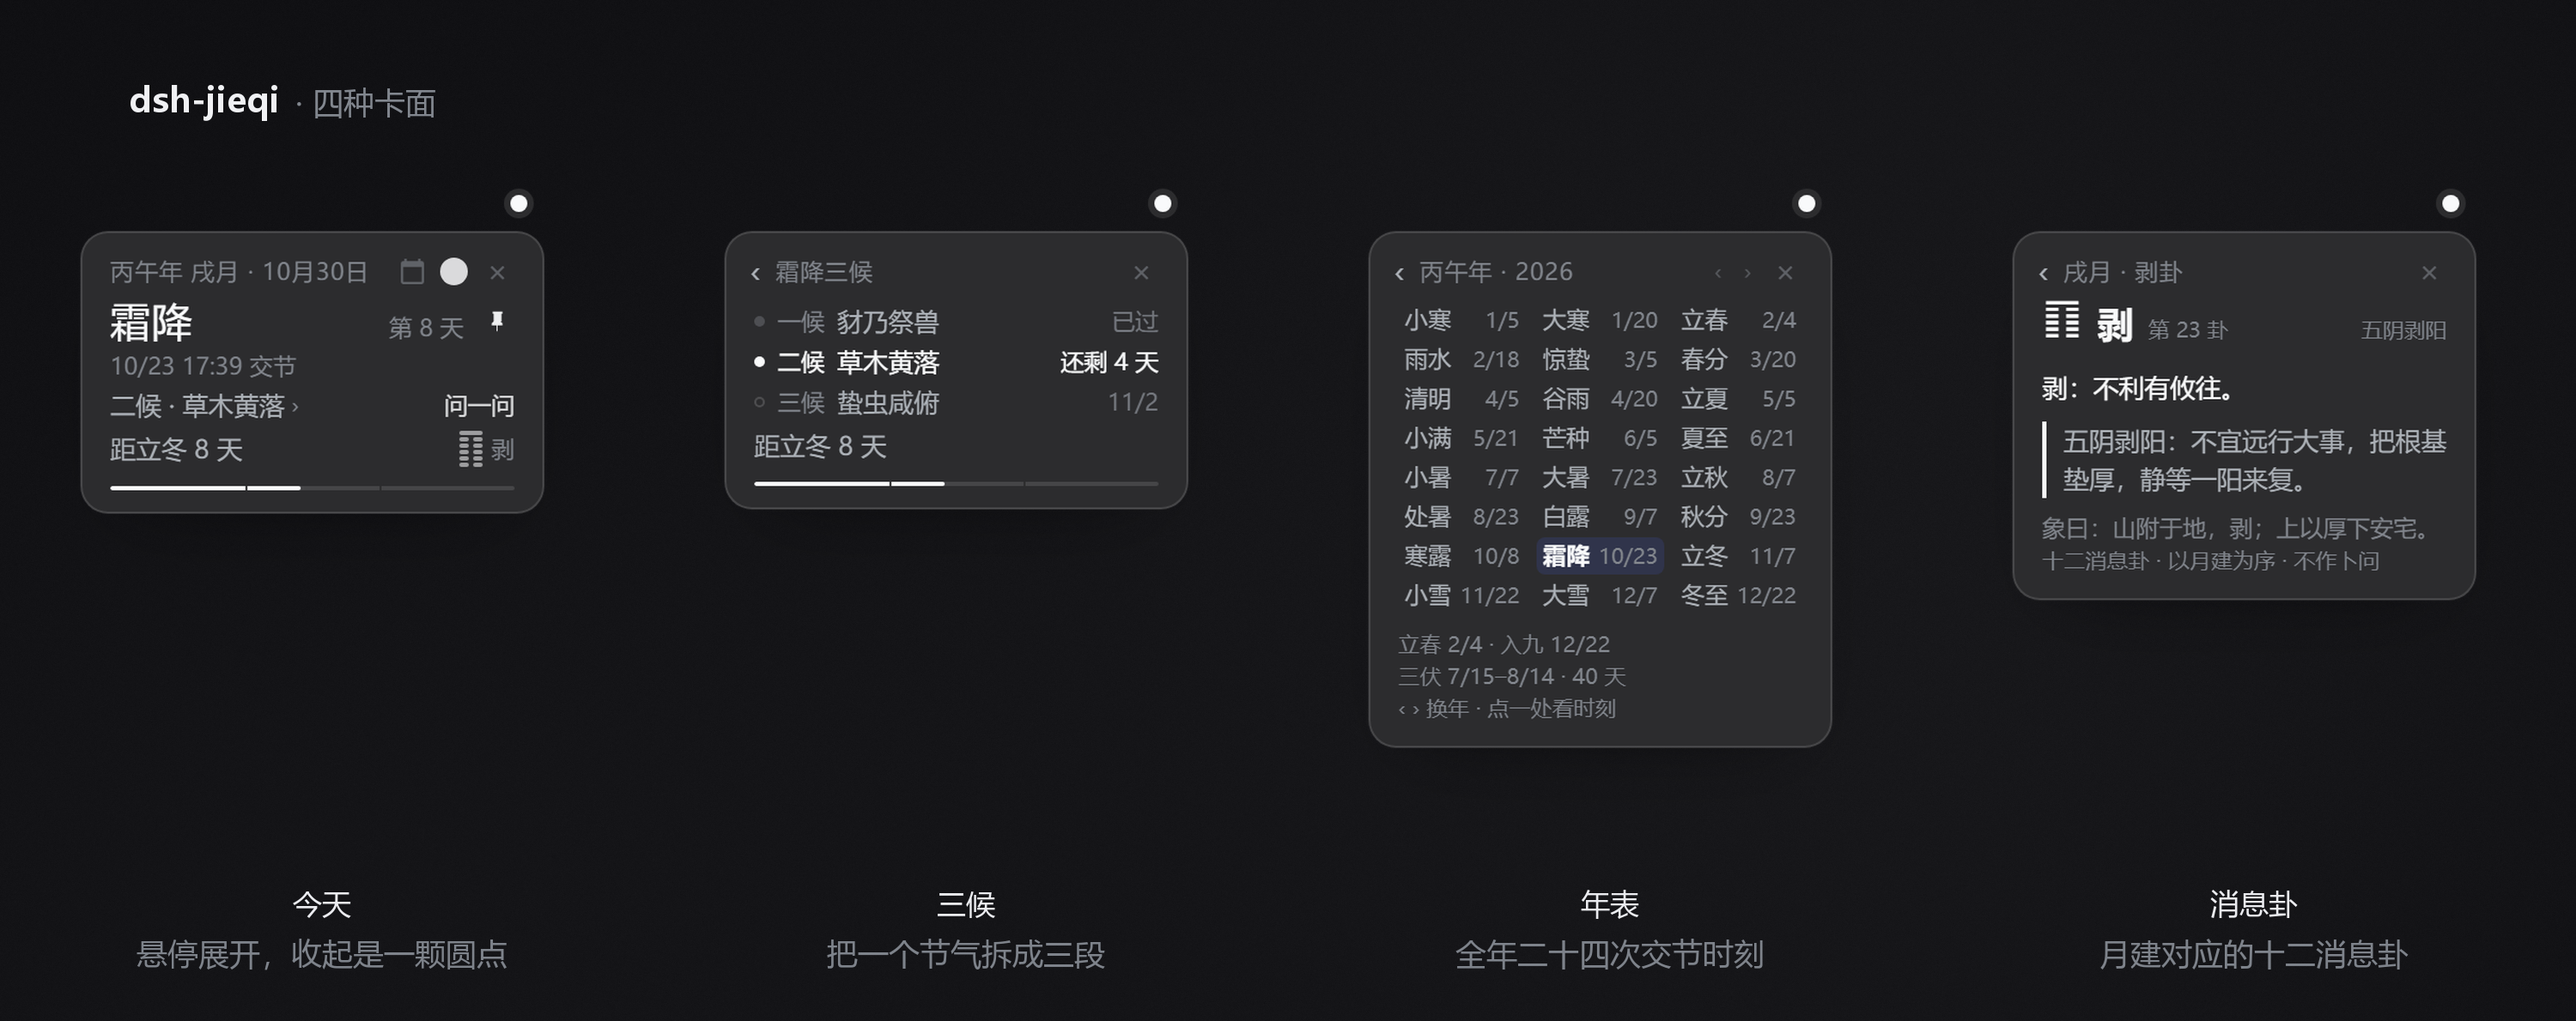
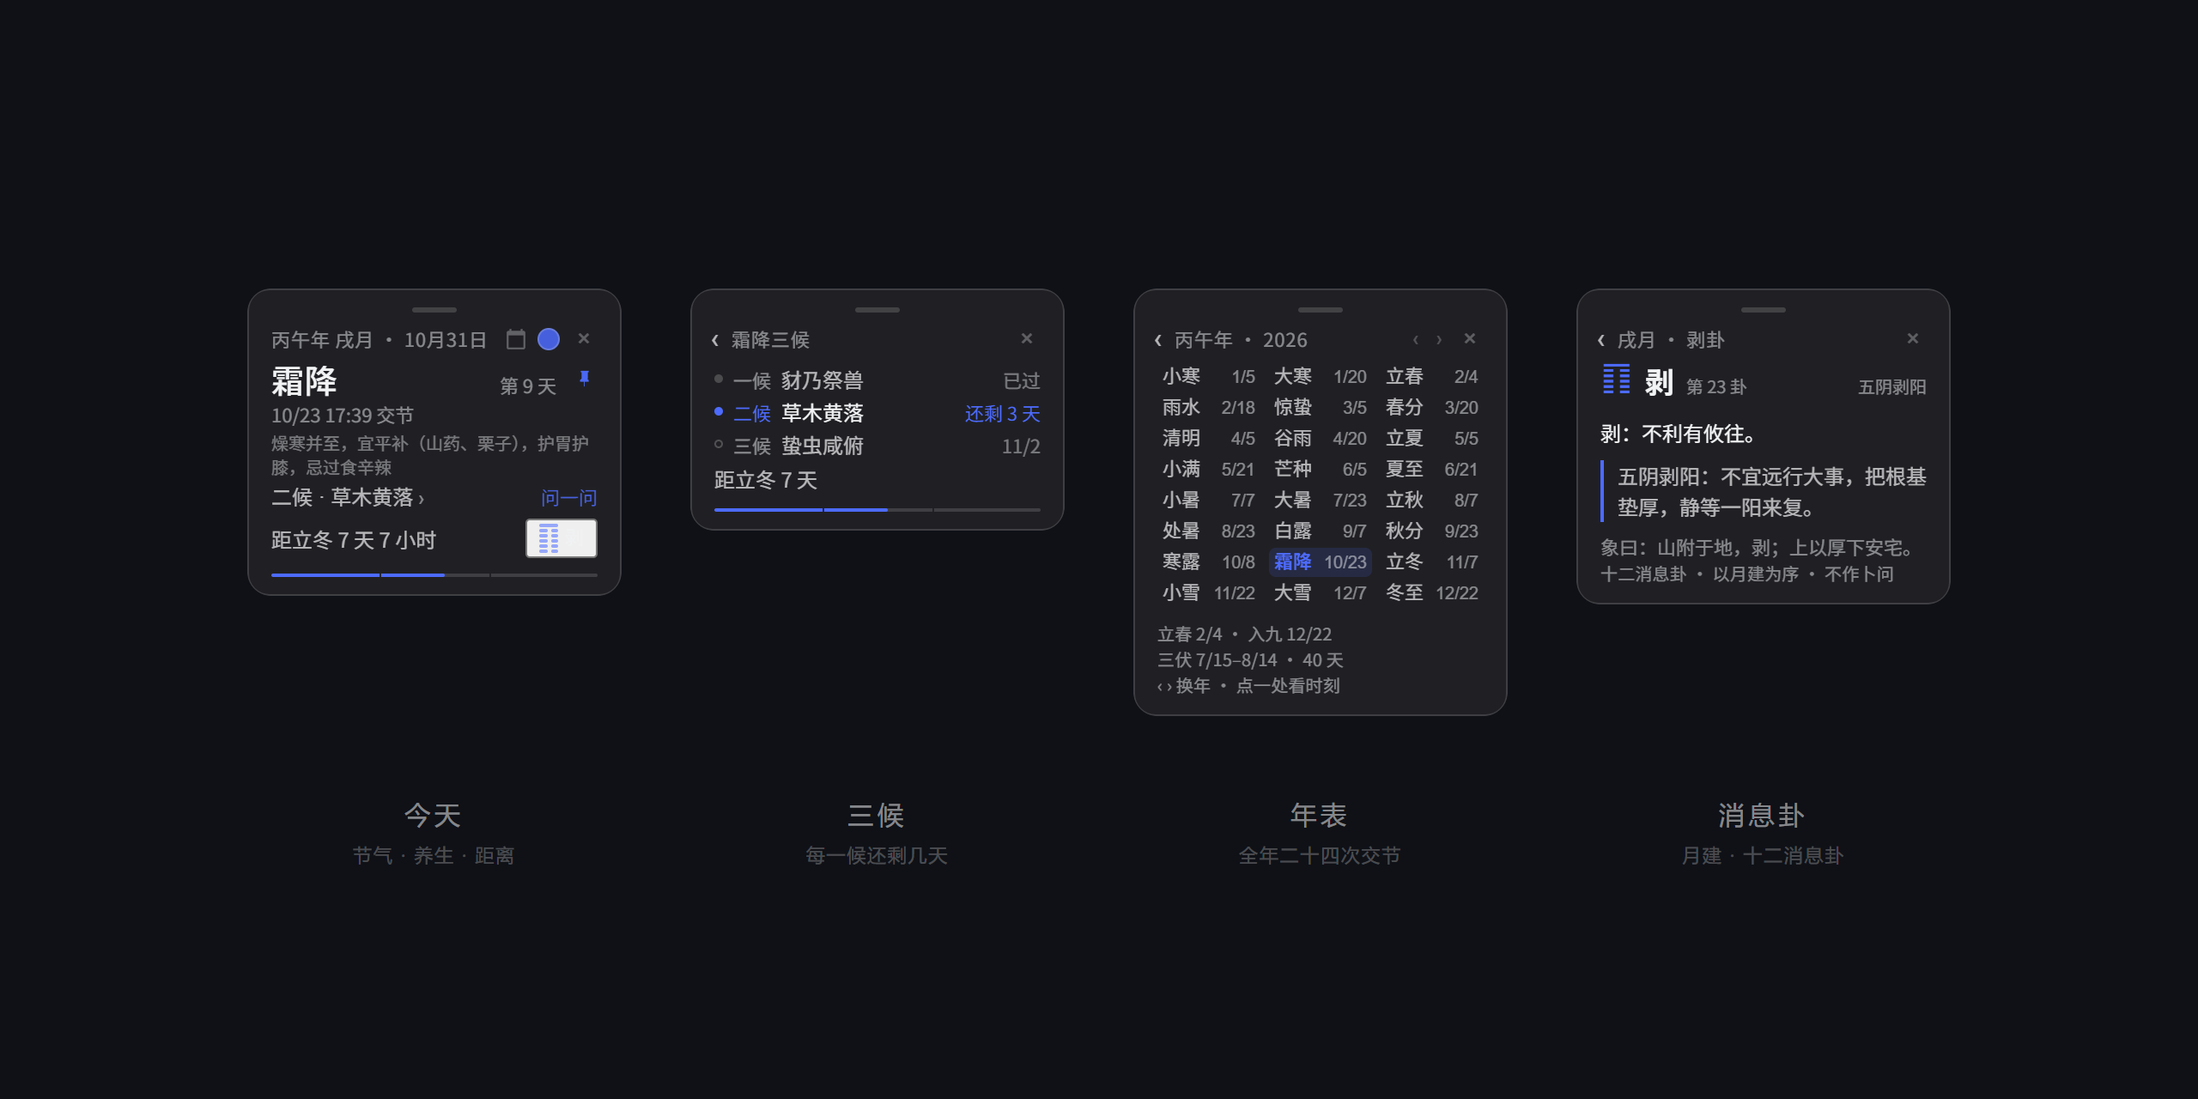
docs: refresh cover and card faces for 0.8.0
Re-render the four card faces from the shipped client.js and rebuild cover.png / faces.png. Intro paragraphs and marketplace copy now mention the one-line 养生 note, the hour-accurate countdown and whole-card dragging.

diff --git a/README.md b/README.md
@@ -1,6 +1,6 @@
 # dsh-jieqi · 二十四节气，落在输入框上方
 
-一颗安静的小圆点，停在 DeepSeek Harness 对话区标题栏的下沿。鼠标移上去，它就展开成今天的节气卡：干支年、月建、第几天、交节时刻、当前候、距下一个节气，还有月建对应的消息卦。
+一颗安静的小圆点，停在 DeepSeek Harness 对话区标题栏的下沿。鼠标移上去，它就展开成今天的节气卡：干支年、月建、第几天、交节时刻、当前候、距下一个节气、一句养生，还有月建对应的消息卦。整张卡片都能拖着走，点一下就把节气名复制下来。
 
 不联网，不调用模型，不占一个侧栏位置。所有节气由太阳视黄经在本地算出来。
 

diff --git a/README.en.md b/README.en.md
@@ -2,8 +2,9 @@
 
 A quiet 8px dot under the conversation header of the DeepSeek Harness Web GUI.
 Hover it and it unfolds into today's solar term: the 干支 year, the month branch,
-which day of the term, the exact instant it began, the current 候, the next term,
-and the 消息卦 of the month.
+which day of the term, the exact instant it began, the current 候, the next term
+counted down to the hour, a one-line 养生 note, and the 消息卦 of the month. The
+whole card drags by itself, and one click copies the term name.
 
 No network, no model call, no sidebar slot. Every instant is solved locally from
 the Sun's apparent longitude.
